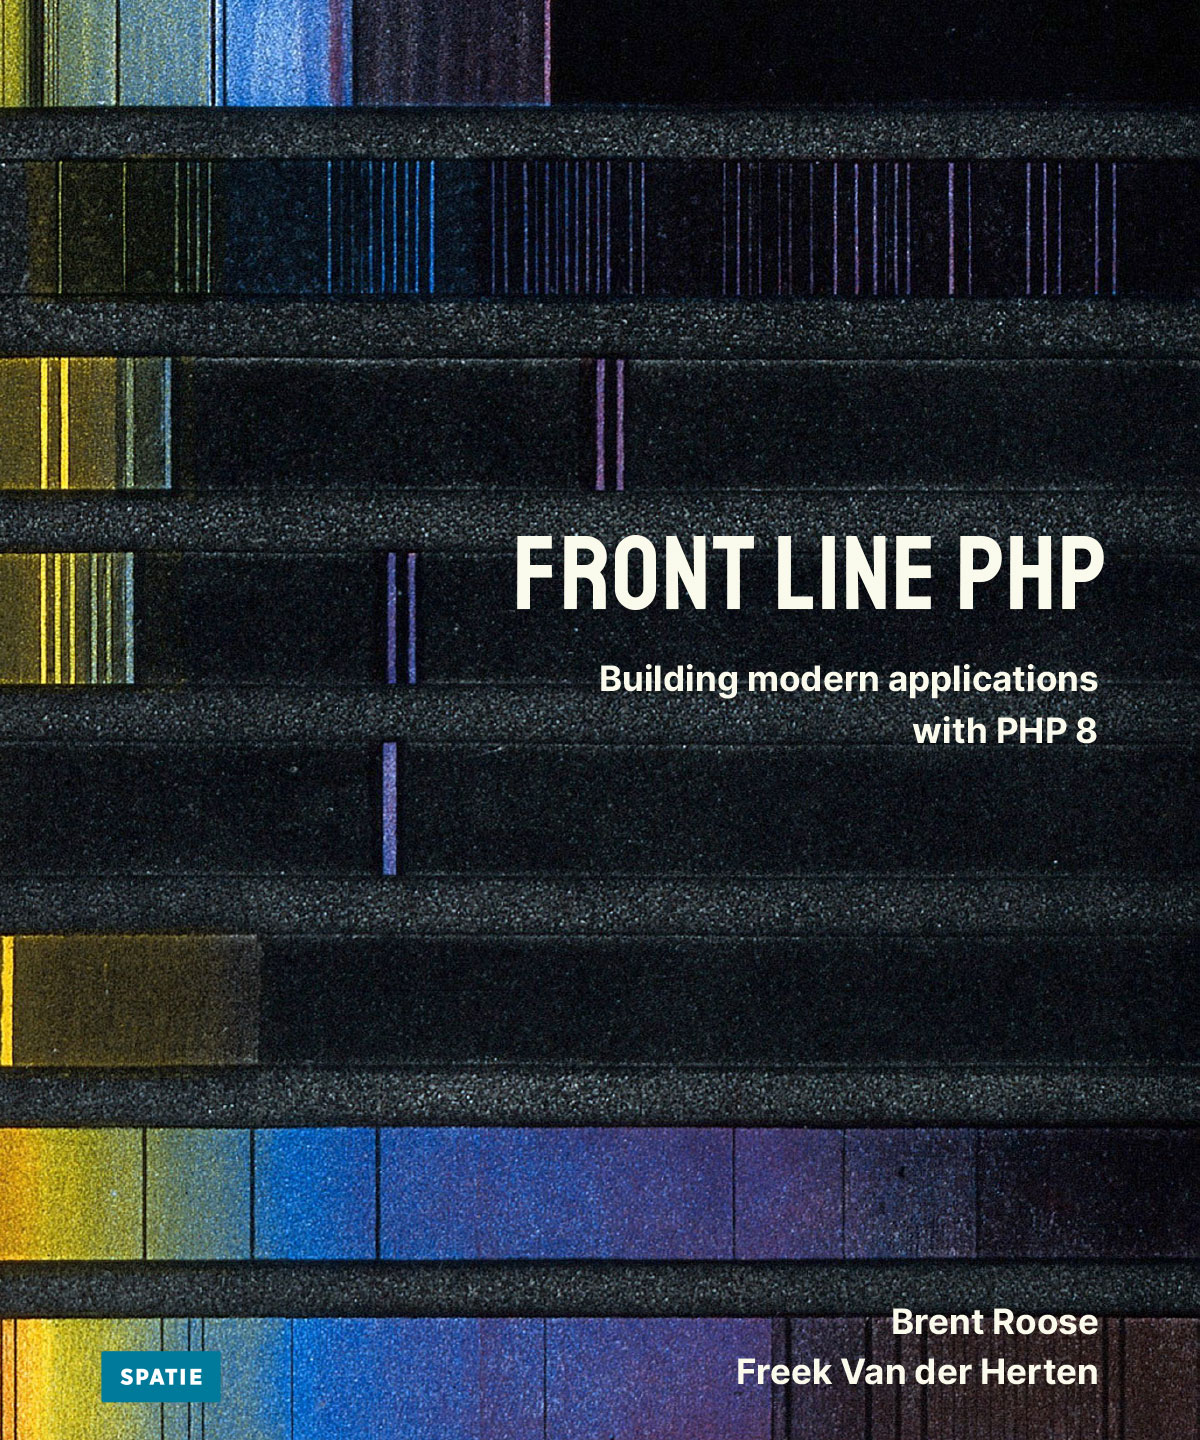
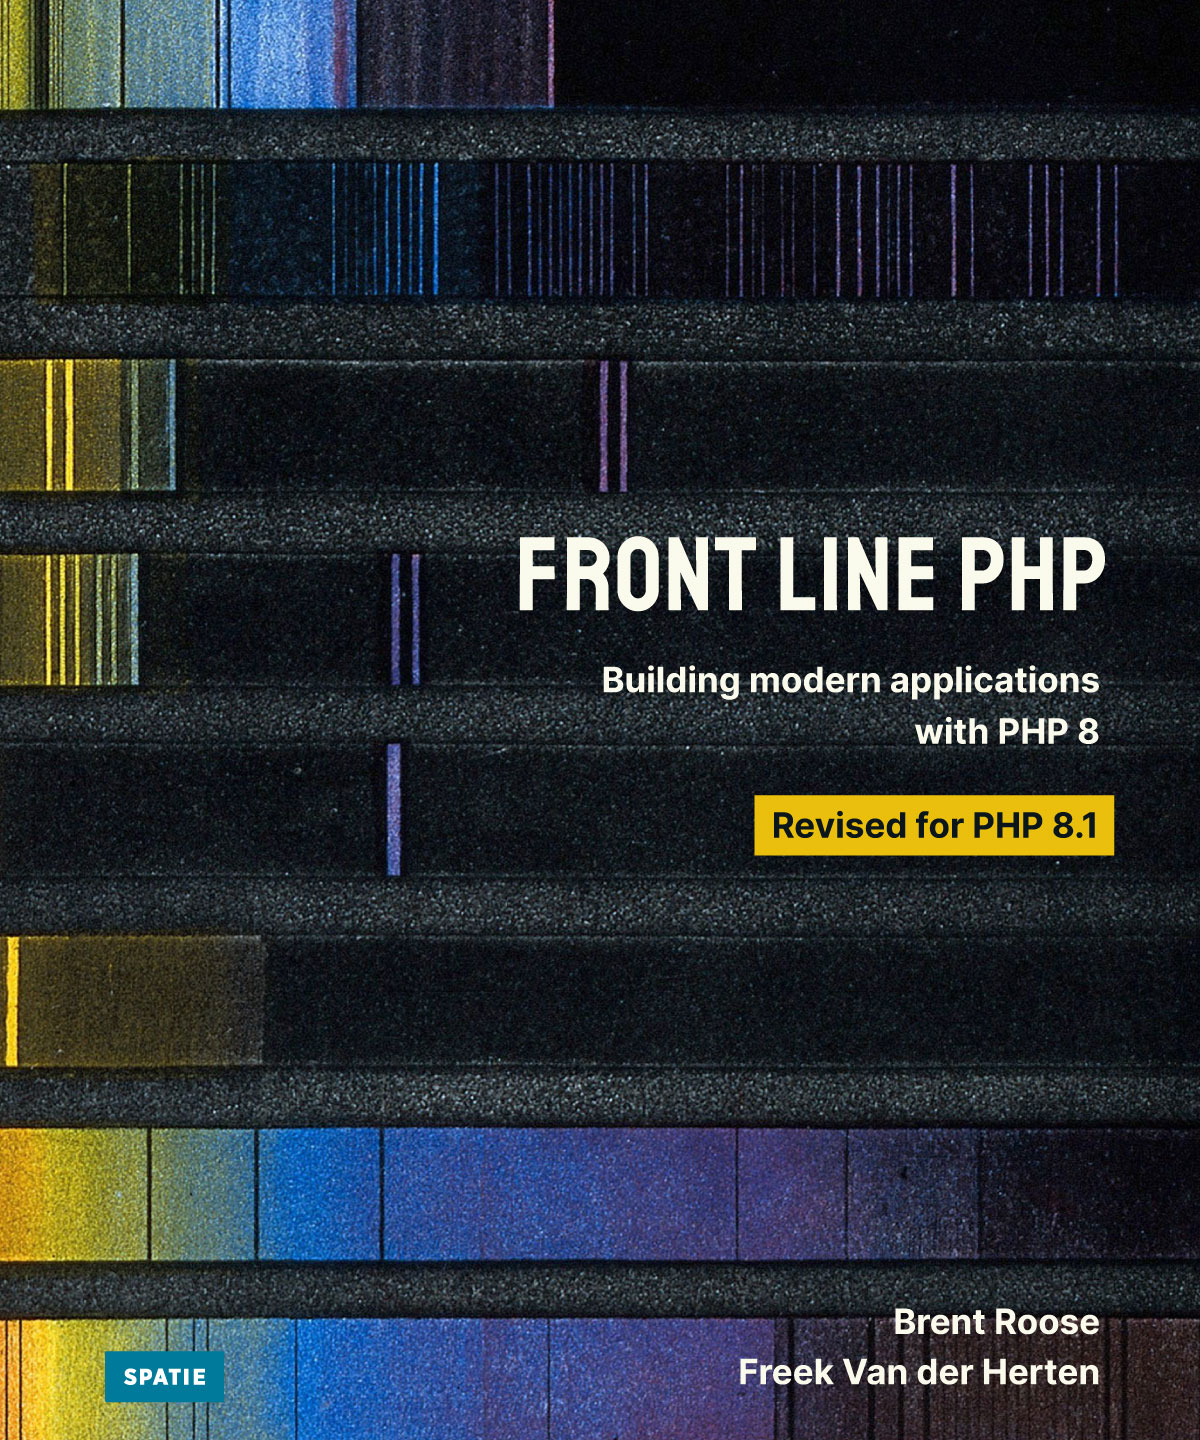
Update cover

Changed region(s): [[0.0, 0.0, 1.0, 1.0]]

diff --git a/resources/views/partials/priceCard.blade.php b/resources/views/partials/priceCard.blade.php
@@ -59,7 +59,7 @@
                             <li class="font-semibold"><i class="fas fa-check text-xs text-blue-500"></i> 250 pages of
                                 premium content
                             </li>
-                            <li><i class="fas fa-check text-xs text-blue-500"></i> Including the upcoming <span class="font-semibold">PHP 8.1</span> update</li>
+                            <li><i class="fas fa-check text-xs text-blue-500"></i> Includes an <span class="font-semibold">PHP 8.1</span> update</li>
                             <li><i class="fas fa-check text-xs text-blue-500"></i> Available in PDF and EPUB</li>
                             <li><i class="fas fa-check text-xs text-blue-500"></i> More than a dozen <a
                                     class="markup-link font-semibold" href="{{spatieUrl('https://spatie.be/videos/front-line-php')}}">free
